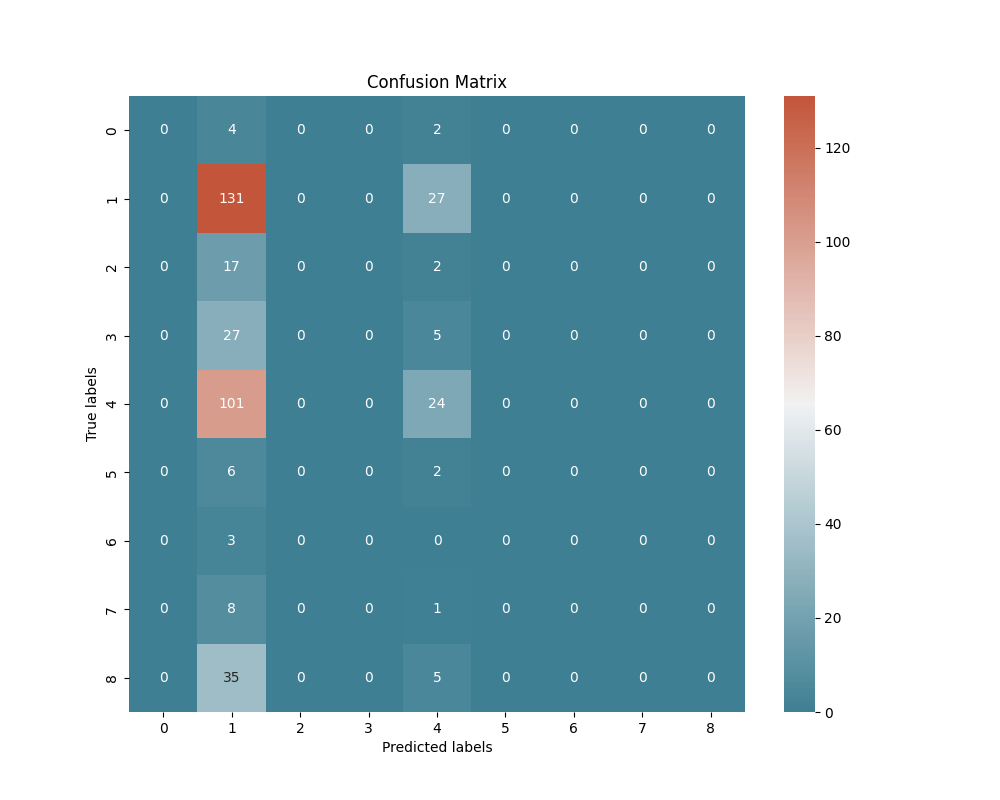
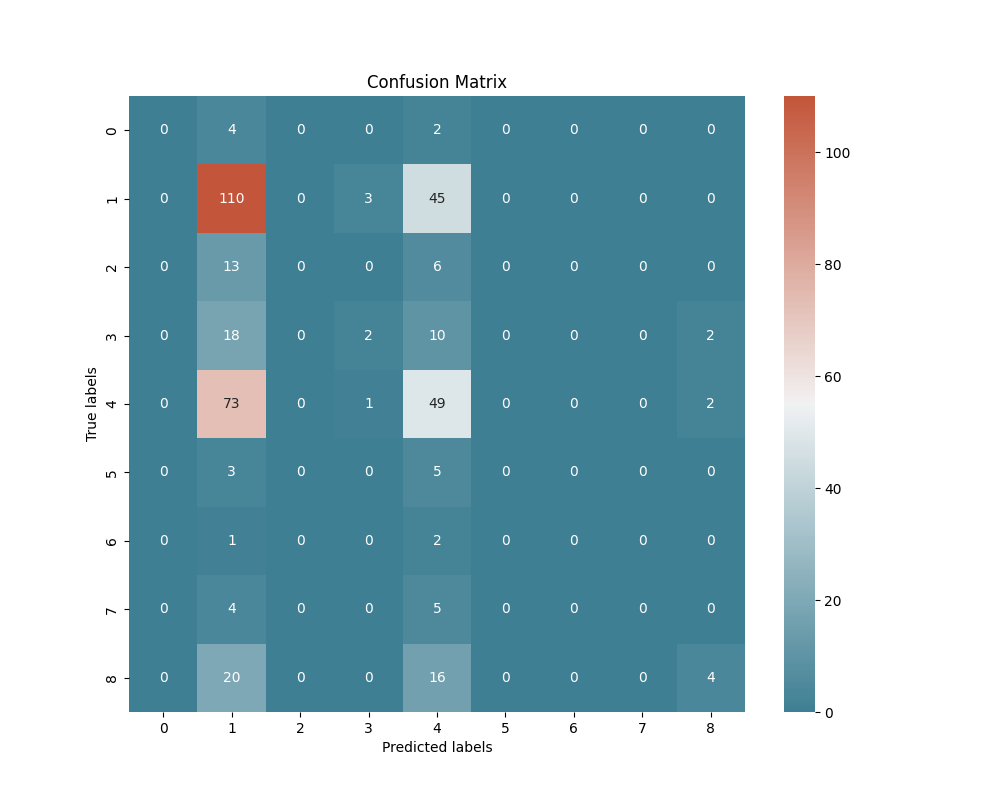
updated models,added functionality backend conditional use of model classifying images

diff --git a/service/app/main.py b/service/app/main.py
@@ -60,9 +60,18 @@ def classify():
 
 @app.route('/bubble_chart', methods=['GET'])
 def get_bubble_chart_data():
-    # Open en laad de gegevens van het pkl-bestand
+    bubble_data = {}
+
+    # Load data from the first model
     with open(settings.ENCODERS_MODEL_PATH + 'label_stats_seq_dense.pkl', 'rb') as file:
-        bubble_data = pickle.load(file)
+        seq_dense_data = pickle.load(file)
+    bubble_data['seq_dense'] = seq_dense_data
+
+    # Load data from the second model
+    with open(settings.ENCODERS_MODEL_PATH + 'label_stats_dense.pkl', 'rb') as file:
+        dense_data = pickle.load(file)
+    bubble_data['dense'] = dense_data
+
     return jsonify(bubble_data)
   
 @app.route('/items', methods=['POST'])
